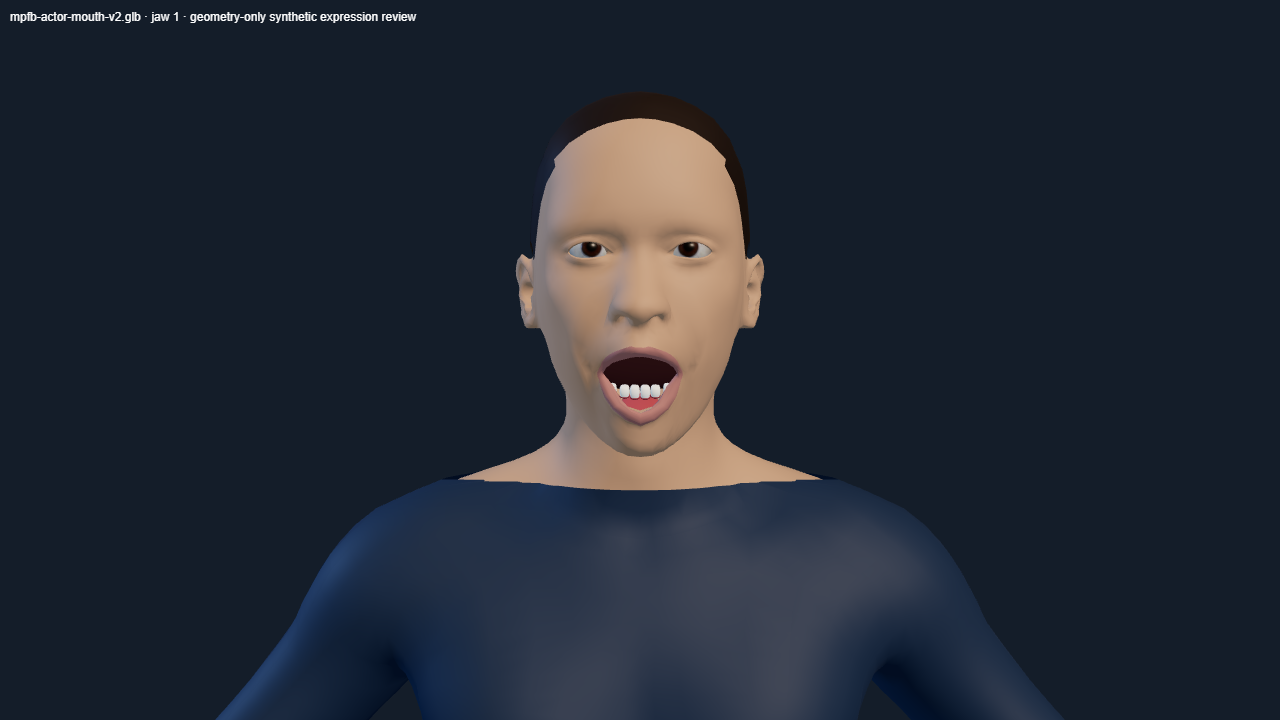
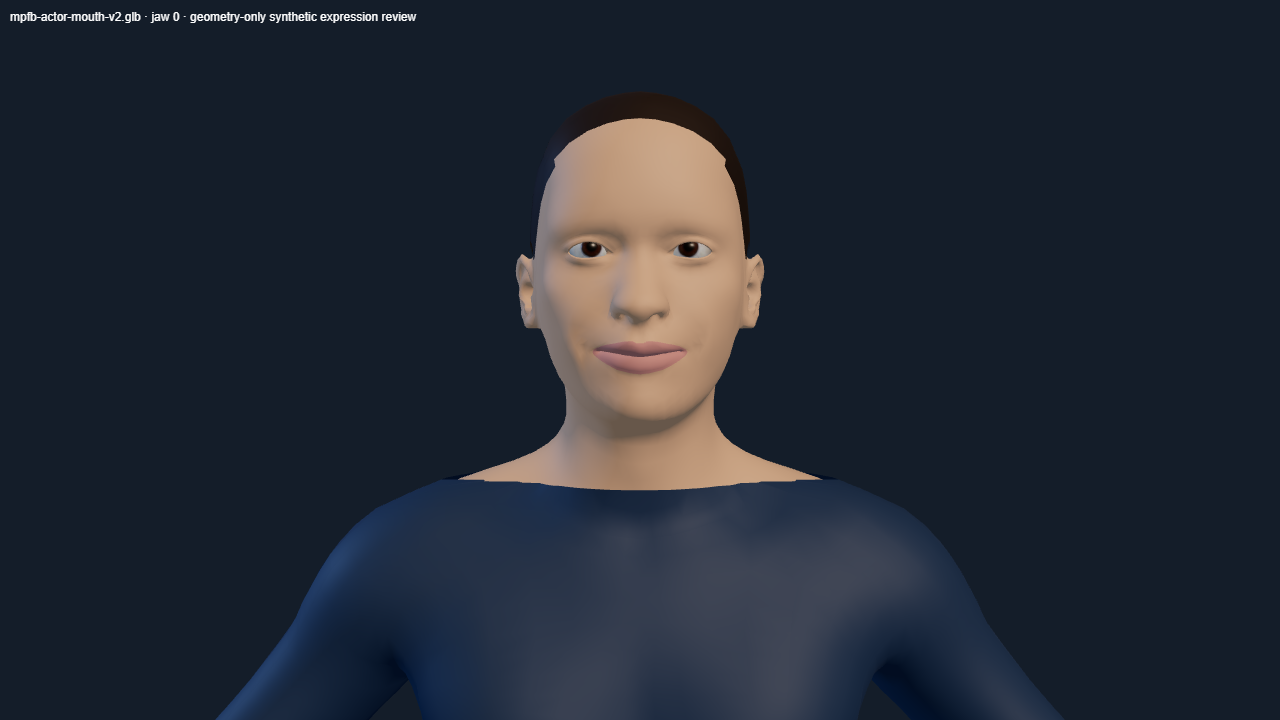
fix(docs): align V2 smile evidence pose

Changed region(s): [[0.4375, 0.4278, 0.5625, 0.6417]]

diff --git a/experiments/privacy-puppet-webcam/README.md b/experiments/privacy-puppet-webcam/README.md
@@ -85,7 +85,7 @@ Validación pendiente: webcam real, falso positivo al mirar hacia abajo, sincron
 
 **MPFB Actor · anatomía bucal experimental** es una opción separada que conserva el GLB completo anterior. Compara la geometría en [mandíbula cerrada original](../../docs/evidence/issue-4-mouth/before-0.png), [abierta original](../../docs/evidence/issue-4-mouth/before-100.png), [abierta con anatomía nueva](../../docs/evidence/issue-4-mouth/after-100.png), [sonrisa](../../docs/evidence/issue-4-mouth/after-smile.png) y [neutral nuevo](../../docs/evidence/issue-4-mouth/after-neutral-restored.png).
 
-**MPFB Actor · anatomía bucal V2** es una tercera opción optativa; no reemplaza el actor ni la exportación anterior. Sus coronas más anchas y diferenciadas reemplazan los dientes pequeños en forma de punta, con esmalte marfil mate y un tono de labio algo más rosado. Compará [V1 abierta](../../docs/evidence/issue-4-mouth/after-100.png) con [V2 abierta](../../docs/evidence/issue-4-mouth/after-v2-100.png), además de [reposo](../../docs/evidence/issue-4-mouth/after-v2-0.png), [25 %](../../docs/evidence/issue-4-mouth/after-v2-25.png), [50 %](../../docs/evidence/issue-4-mouth/after-v2-50.png), [sonrisa](../../docs/evidence/issue-4-mouth/after-v2-smile.png) y [parpadeo con giro de cabeza](../../docs/evidence/issue-4-mouth/after-v2-blink-rotated.png). Son poses sintéticas, no una prueba con webcam.
+**MPFB Actor · anatomía bucal V2** es una tercera opción optativa; no reemplaza el actor ni la exportación anterior. Sus coronas más anchas y diferenciadas reemplazan los dientes pequeños en forma de punta, con esmalte marfil mate y un tono de labio algo más rosado. Compará [V1 abierta](../../docs/evidence/issue-4-mouth/after-100.png) con [V2 abierta](../../docs/evidence/issue-4-mouth/after-v2-100.png), además de [reposo](../../docs/evidence/issue-4-mouth/after-v2-0.png), [25 %](../../docs/evidence/issue-4-mouth/after-v2-25.png), [50 %](../../docs/evidence/issue-4-mouth/after-v2-50.png), [sonrisa V1](../../docs/evidence/issue-4-mouth/after-smile.png) y [sonrisa V2](../../docs/evidence/issue-4-mouth/after-v2-smile.png). Ambas sonrisas usan mandíbula 0 y sonrisa 0.55; el resto son poses sintéticas, no una prueba con webcam.
 
 La selección y la prueba manual de mandíbula en el visor cargan el GLB V2 real: [captura de la app](../../docs/evidence/issue-4-mouth/app-v2-jaw-100.png). No se solicitó permiso de cámara ni micrófono.
 

diff --git a/experiments/privacy-puppet-webcam/assets/README.md b/experiments/privacy-puppet-webcam/assets/README.md
@@ -99,7 +99,7 @@ Generación optativa (Blender 5.2+, desde la raíz; la salida debe no existir):
 
[1 lines of base64/hex data omitted]
 
-Evidencia sintética con el mismo visor, cámara e iluminación: [V2 neutral](../../../docs/evidence/issue-4-mouth/after-v2-0.png), [25 %](../../../docs/evidence/issue-4-mouth/after-v2-25.png), [50 %](../../../docs/evidence/issue-4-mouth/after-v2-50.png), [100 %](../../../docs/evidence/issue-4-mouth/after-v2-100.png), [sonrisa](../../../docs/evidence/issue-4-mouth/after-v2-smile.png) y [parpadeo + cabeza girada](../../../docs/evidence/issue-4-mouth/after-v2-blink-rotated.png). La respuesta del navegador solo observó el asset y morphs sintéticos; no se usaron webcam ni micrófono.
+Evidencia sintética con el mismo visor, cámara e iluminación: [V2 neutral](../../../docs/evidence/issue-4-mouth/after-v2-0.png), [25 %](../../../docs/evidence/issue-4-mouth/after-v2-25.png), [50 %](../../../docs/evidence/issue-4-mouth/after-v2-50.png), [100 %](../../../docs/evidence/issue-4-mouth/after-v2-100.png), [sonrisa](../../../docs/evidence/issue-4-mouth/after-v2-smile.png) y [parpadeo + cabeza girada](../../../docs/evidence/issue-4-mouth/after-v2-blink-rotated.png). Las capturas V1 y V2 de sonrisa usan `jaw=0` y `smile=0.55`, para compararlas en la misma pose. La respuesta del navegador solo observó el asset y morphs sintéticos; no se usaron webcam ni micrófono.
 
 El selector del visor también se probó con el GLB V2 local y la prueba manual de mandíbula, con la cámara apagada: [captura de app](../../../docs/evidence/issue-4-mouth/app-v2-jaw-100.png). El navegador reportó un 404 de favicon, no solicitudes fallidas de los módulos ni del GLB.
 

diff --git a/odd/tasks/actor-mouth-art-v2.md b/odd/tasks/actor-mouth-art-v2.md
@@ -42,7 +42,7 @@ The current separate-teeth geometry is visibly undersized and pointy when the ja
 
 ## Progress and next step
 
-Exploration confirmed the current generator makes twelve low-profile ellipsoid teeth per arch with restrained vertex resolution; the open-jaw screenshot shows the result as conspicuously small, spaced points. V2 now uses rounded, varied crowns with narrow gingiva at each root. Upper/lower crown AABBs show no overlap at jaw weights 0, 0.25, 0.5, and 1; this is a conservative geometry check, not a full collision solver. The app loads V2 and opens it through the existing manual jaw button without asking for camera/mic permission. The task document is the current recovery record; its Engram mirror is pending because Engram returned `unknown_project` for the detected project. Next: parent review and gradual integration; no remote operations were performed.
+Exploration confirmed the current generator makes twelve low-profile ellipsoid teeth per arch with restrained vertex resolution; the open-jaw screenshot shows the result as conspicuously small, spaced points. V2 now uses rounded, varied crowns with narrow gingiva at each root. Upper/lower crown AABBs show no overlap at jaw weights 0, 0.25, 0.5, and 1; this is a conservative geometry check, not a full collision solver. The app loads V2 and opens it through the existing manual jaw button without asking for camera/mic permission. The V1/V2 smile evidence is matched at `jaw=0`, `smile=0.55`. The task document is the current recovery record; its Engram mirror is pending because Engram returned `unknown_project` for the detected project. Next: parent review and gradual integration; no remote operations were performed.
 
[1 lines of base64/hex data omitted]
 
